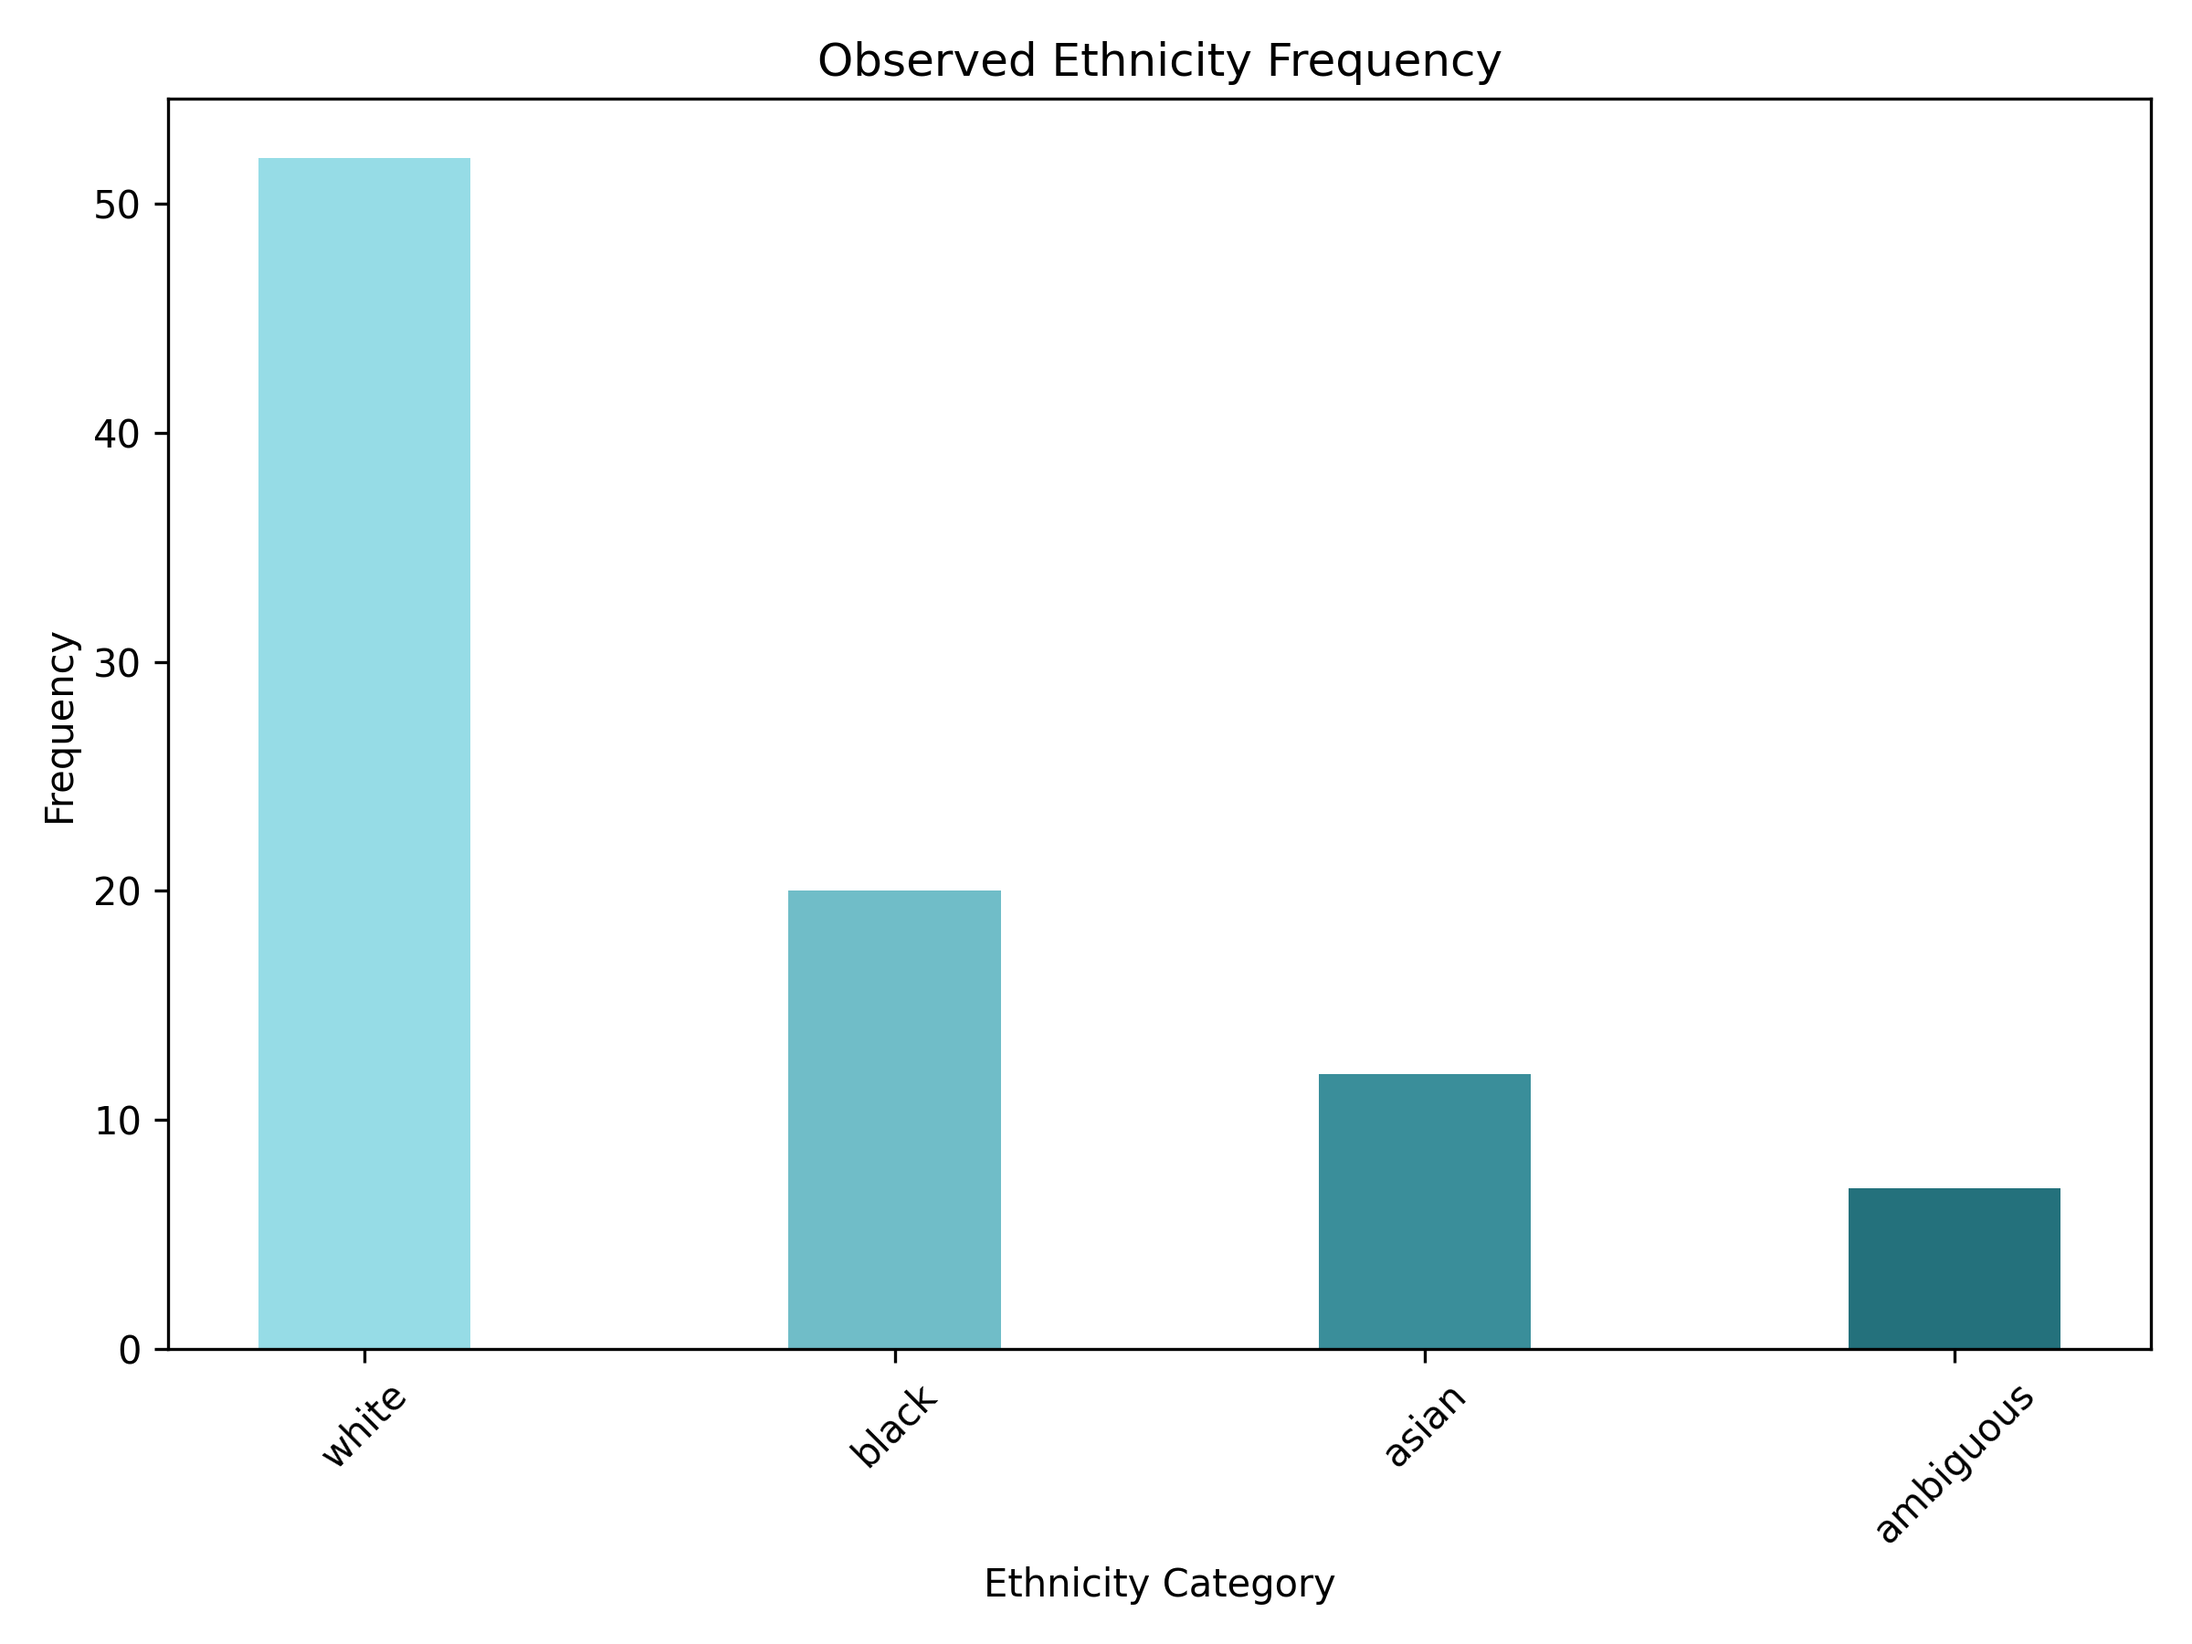
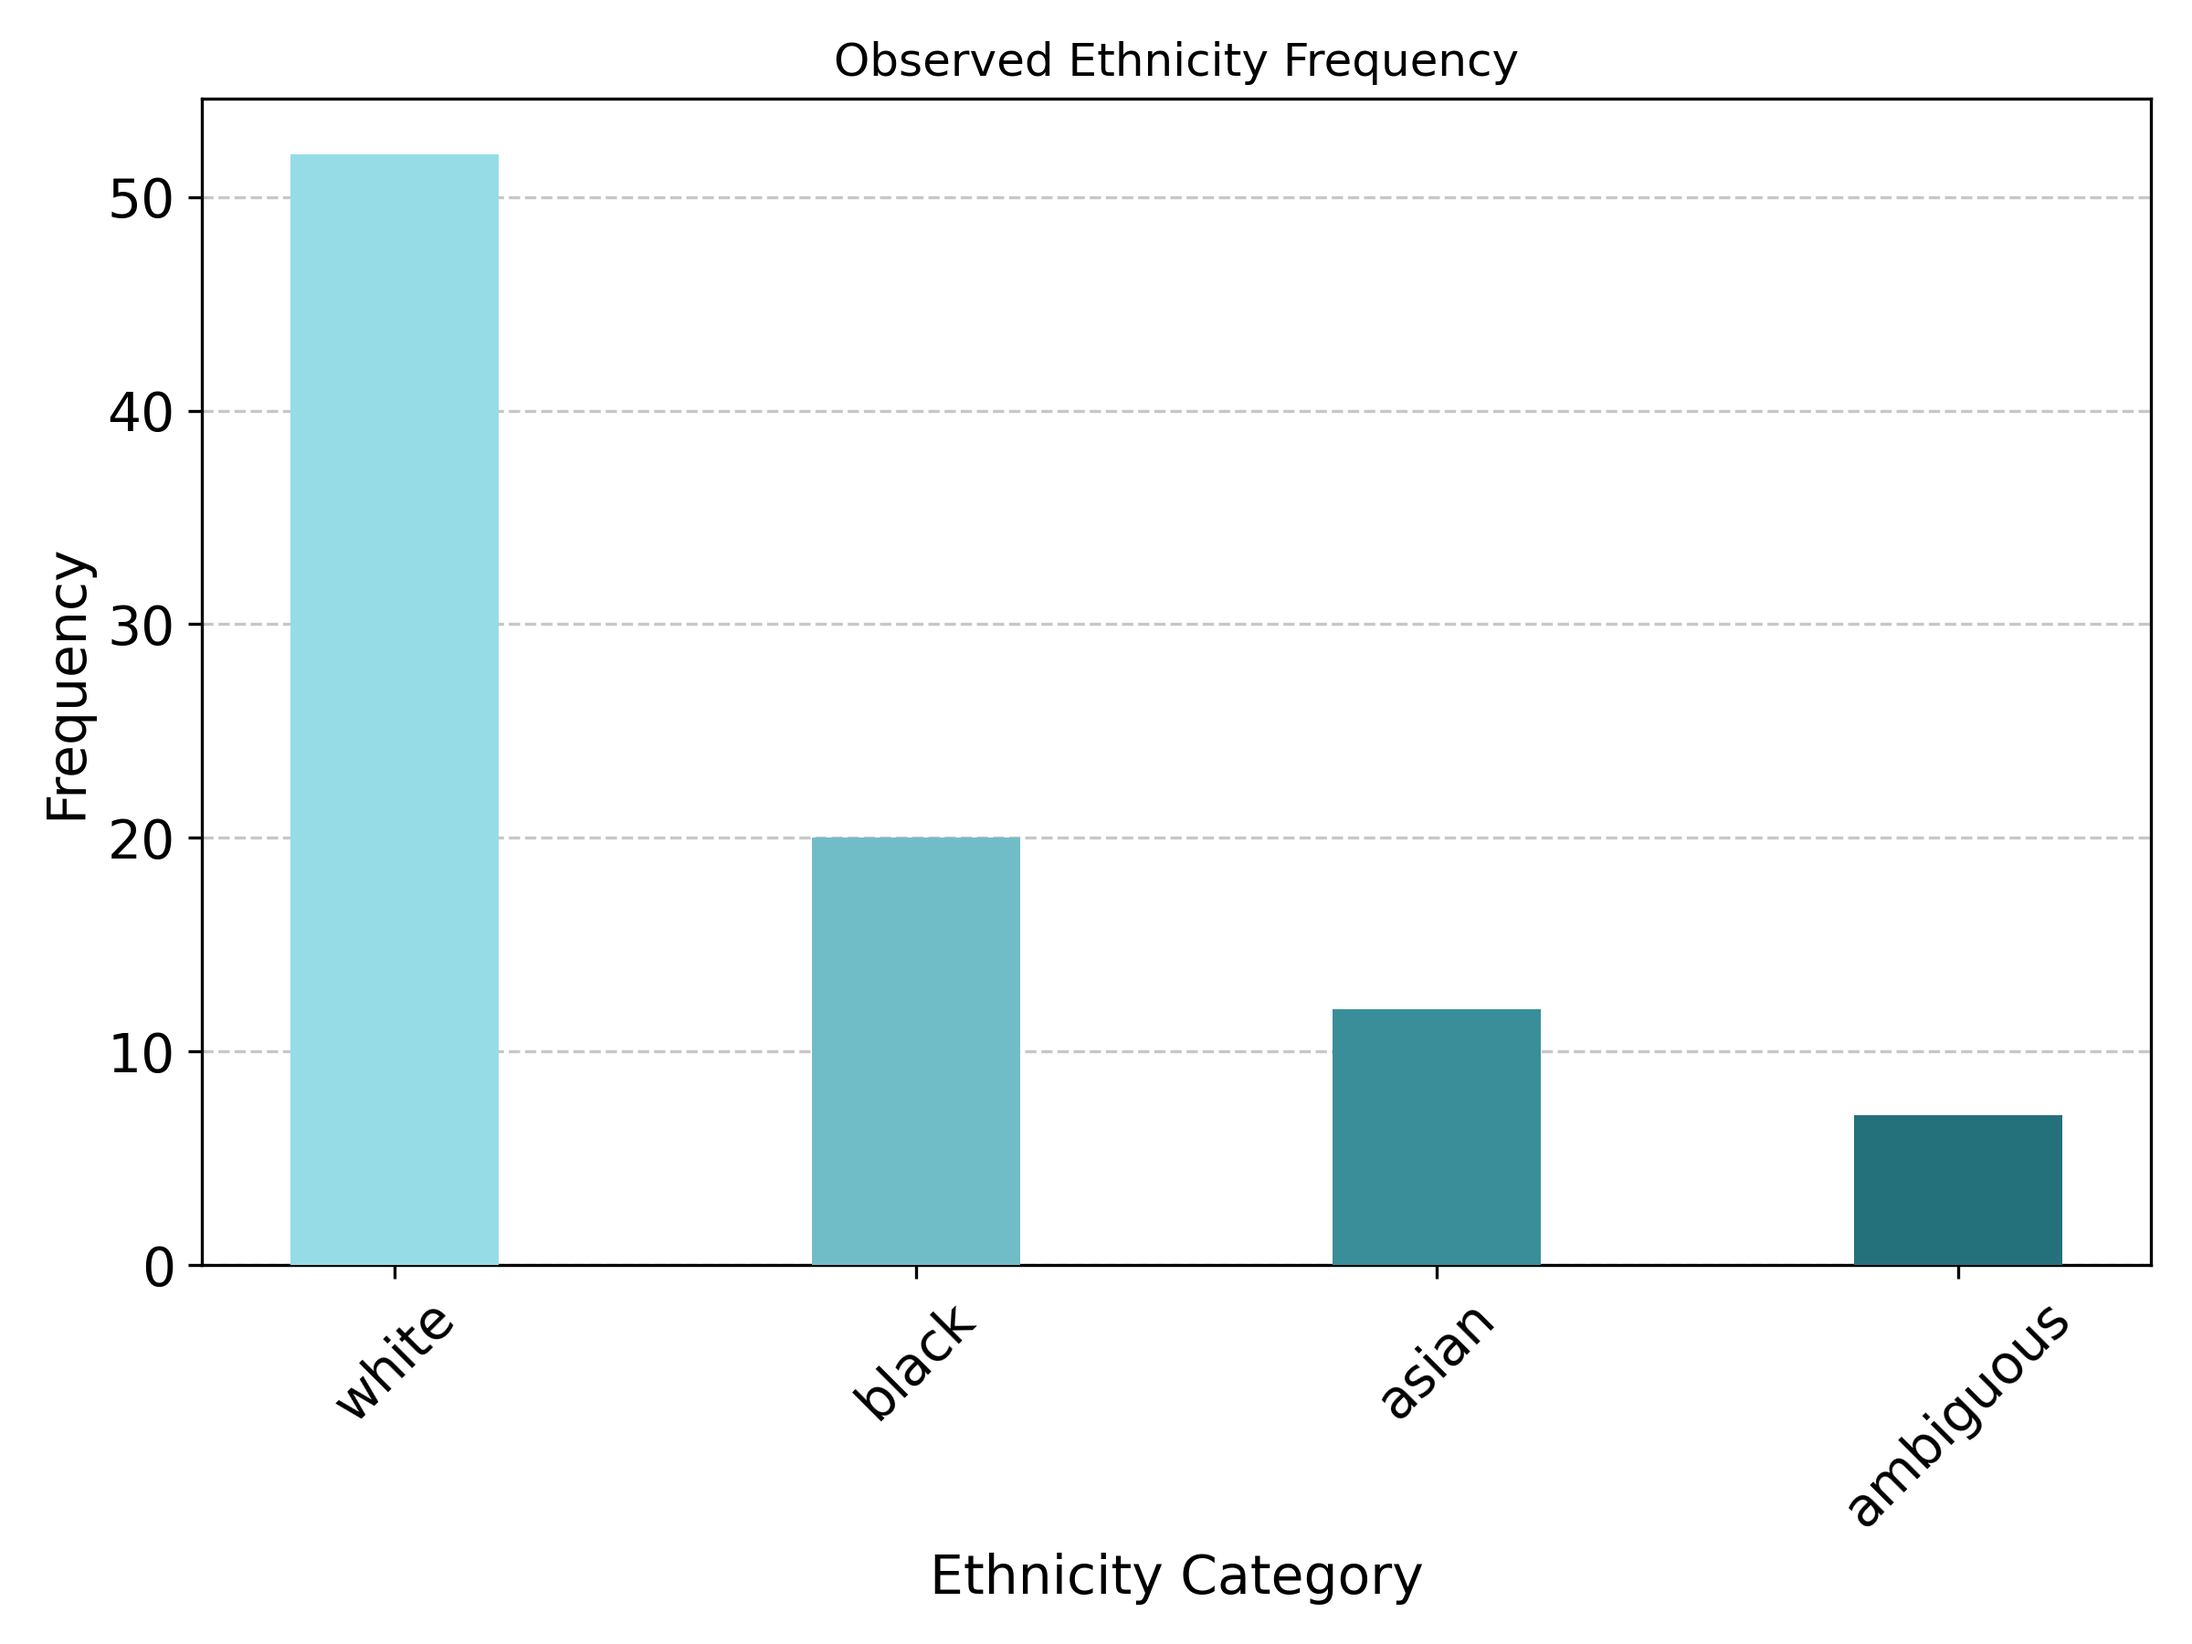
Updated plots

diff --git a/preprocess_models.py b/preprocess_models.py
@@ -149,9 +149,9 @@ def gender_distribution_per_us_agency(agency_df):
     colors = ["#ff73c5", "#73d5ff", "#78ff73"]  # Blue, Orange, Green
 
     fig, ax = plt.subplots(2, 1, figsize=(9, 16), sharey=True)
-    agency_gender_count_1.plot(kind='bar', ax=ax[0], width=0.5, color=colors, edgecolor="black", linewidth=0.5)
-    agency_gender_count_2.plot(kind='bar', ax=ax[1], width=0.5, color=colors, edgecolor="black", linewidth=0.5)
-    ax[0].set_title("Gender Distribution per Agency", fontsize=16, fontweight='bold')
+    agency_gender_count_1.plot(kind='bar', ax=ax[0], width=0.5, color=colors, edgecolor="black", linewidth=0.5, zorder=3)
+    agency_gender_count_2.plot(kind='bar', ax=ax[1], width=0.5, color=colors, edgecolor="black", linewidth=0.5, zorder=3)
+    ax[0].set_title("Gender Distribution per Agency", fontsize=16)
     ax[0].set_xlabel("Agency", fontsize=14)
     ax[0].set_ylabel("Count", fontsize=14)
     ax[1].set_xlabel("Agency", fontsize=14)
@@ -162,11 +162,13 @@ def gender_distribution_per_us_agency(agency_df):
     ax[1].set_xticks(x_positions_2)
     ax[0].set_xticklabels(agency_gender_count_1.index, rotation=90, ha='center', fontsize=12)
     ax[1].set_xticklabels(agency_gender_count_2.index, rotation=90, ha='center', fontsize=12)
-    plt.grid(axis="y", linestyle="--", alpha=0.7)
+    ax[0].grid(axis="y", linestyle="--", alpha=0.7, zorder=0)
+    ax[1].grid(axis="y", linestyle="--", alpha=0.7, zorder=0)
     plt.gca().set_axisbelow(True)
     #plt.subplots_adjust(left=0.1, right=0.95, top=0.9, bottom=0.5)
     plt.tight_layout(h_pad=4)
-    plt.legend(title="Gender", fontsize=12, title_fontsize=14)
+    ax[0].legend(title="Gender", fontsize=12, title_fontsize=14)
+    ax[1].legend(title="Gender", fontsize=12, title_fontsize=14)
     plt.savefig("images/gender_distribution_per_agency.png", dpi=300)
 
 def import_skintone_data():
@@ -196,12 +198,15 @@ def plot_skintone_distribution():
     skintone_counts = skintones_df['skin_tone'].value_counts().sort_index()
     skin_tone_colormap = {1: '#f6ede4', 2: '#f3e7db', 3: '#f7ead0', 4: '#eadaba', 5: '#d7bd96', 
                           6: '#a07e56', 7: '#825c43', 8: '#604134', 9: '#3a312a', 10: '#292420'}
+    plt.figure(figsize=(10, 8))
+    plt.grid(axis="y", linestyle="--", alpha=0.7, zorder=0)
     plt.bar(x=list(skintone_counts.index), height=list(skintone_counts.values), color=[skin_tone_colormap[i] \
-                                                                                       for i in skintone_counts.index])
-    plt.title('Skintone Distribution')
-    plt.xlabel('Skin Tone on Monk Skin Tone Scale')
-    plt.ylabel('Count')
-    plt.xticks(list(range(1, 11)), rotation=90)
+                                                                                       for i in skintone_counts.index], zorder=3)
+    plt.title('Skintone Distribution', fontsize=14)
+    plt.xlabel('Skin Tone on Monk Skin Tone Scale', fontsize=14)
+    plt.ylabel('Count', fontsize=14)
+    plt.xticks(list(range(1, 11)), rotation=90, fontsize=14)
+    plt.yticks(list(range(0, 50, 10)), fontsize=14)
     plt.savefig('images/skintone_distribution_barchart.png')
     
 
@@ -266,45 +271,49 @@ def skintone_vs_gender(skintones_df, moty_df, top_50_male, top_50_female):
     if "TM" in grouped_data.index:
         fig, ax = plt.subplots(1, 5, figsize=(25, 5), sharey=True)
     else:
-        fig, ax = plt.subplots(1, 4, figsize=(20, 5), sharey=True)
-
-    ax[0].bar(x=grouped_data.columns, height=grouped_data.iloc[0], color=[skin_tone_colormap[i] for i in grouped_data.columns])
-    ax[0].set_title('Cisgender Female Models')
-    ax[0].set_xlabel('Skin Tone on Monk Skin Tone Scale')
-    ax[0].set_ylabel('Count')
-    ax[0].set_xticks(list(range(1, 11)))
-    ax[0].set_xticklabels(list(range(1, 11)))
-    ax[0].set_yticks(list(range(0, 21, 2)))
-    ax[0].set_yticklabels(list(range(0, 21, 2)))
-    ax[1].bar(x=grouped_data.columns, height=grouped_data.iloc[1], color=[skin_tone_colormap[i] for i in grouped_data.columns])
-    ax[1].set_title('Cisgender Male Models')
-    ax[1].set_xlabel('Skin Tone')
-    ax[1].set_xticks(list(range(1, 11)))
-    ax[1].set_xticklabels(list(range(1, 11)))
-    ax[1].set_yticks(list(range(0, 21, 2)))
-    ax[1].set_yticklabels(list(range(0, 21, 2)))
-    ax[2].bar(x=grouped_data.columns, height=grouped_data.iloc[2], color=[skin_tone_colormap[i] for i in grouped_data.columns])
-    ax[2].set_title('Non-Binary Models')
-    ax[2].set_xlabel('Skin Tone')
-    ax[2].set_xticks(list(range(1, 11)))
-    ax[2].set_xticklabels(list(range(1, 11)))
-    ax[2].set_yticks(list(range(0, 21, 2)))
-    ax[2].set_yticklabels(list(range(0, 21, 2)))
-    ax[3].bar(x=grouped_data.columns, height=grouped_data.iloc[3], color=[skin_tone_colormap[i] for i in grouped_data.columns])
-    ax[3].set_title('Transgender Female Models')
-    ax[3].set_xlabel('Skin Tone')
-    ax[3].set_xticks(list(range(1, 11)))
-    ax[3].set_xticklabels(list(range(1, 11)))
-    ax[3].set_yticks(list(range(0, 21, 2)))
-    ax[3].set_yticklabels(list(range(0, 21, 2)))
+        fig, ax = plt.subplots(2, 2, figsize=(12, 12), sharey=True)
+    ax[0, 0].grid(axis="y", linestyle="--", alpha=0.7, zorder=0)
+    ax[0, 0].bar(x=grouped_data.columns, height=grouped_data.iloc[0], color=[skin_tone_colormap[i] for i in grouped_data.columns], zorder=3)
+    ax[0, 0].set_title('Cisgender Female Models', fontsize=14)
+    ax[0, 0].set_xlabel('Skin Tone on Monk Skin Tone Scale', fontsize=14)
+    ax[0, 0].set_ylabel('Count', fontsize=14)
+    ax[0, 0].set_xticks(list(range(1, 11)))
+    ax[0, 0].set_xticklabels(list(range(1, 11)), fontsize=14)
+    ax[0, 0].set_yticks(list(range(0, 21, 2)))
+    ax[0, 0].set_yticklabels(list(range(0, 21, 2)), fontsize=14)
+    ax[0, 1].grid(axis="y", linestyle="--", alpha=0.7, zorder=0)
+    ax[0, 1].bar(x=grouped_data.columns, height=grouped_data.iloc[1], color=[skin_tone_colormap[i] for i in grouped_data.columns], zorder=3)
+    ax[0, 1].set_title('Cisgender Male Models', fontsize=14)
+    ax[0, 1].set_xlabel('Skin Tone', fontsize=14)
+    ax[0, 1].set_xticks(list(range(1, 11)))
+    ax[0, 1].set_xticklabels(list(range(1, 11)), fontsize=14)
+    ax[0, 1].set_yticks(list(range(0, 21, 2)))
+    ax[0, 1].set_yticklabels(list(range(0, 21, 2)), fontsize=14)
+    ax[1, 0].grid(axis="y", linestyle="--", alpha=0.7, zorder=0)
+    ax[1, 0].bar(x=grouped_data.columns, height=grouped_data.iloc[2], color=[skin_tone_colormap[i] for i in grouped_data.columns], zorder=3)
+    ax[1, 0].set_title('Non-Binary Models', fontsize=14)
+    ax[1, 0].set_xlabel('Skin Tone', fontsize=14)
+    ax[1, 0].set_xticks(list(range(1, 11)))
+    ax[1, 0].set_xticklabels(list(range(1, 11)), fontsize=14)
+    ax[1, 0].set_yticks(list(range(0, 21, 2)))
+    ax[1, 0].set_yticklabels(list(range(0, 21, 2)), fontsize=14)
+    ax[1, 1].grid(axis="y", linestyle="--", alpha=0.7, zorder=0)
+    ax[1, 1].bar(x=grouped_data.columns, height=grouped_data.iloc[3], color=[skin_tone_colormap[i] for i in grouped_data.columns], zorder=3)
+    ax[1, 1].set_title('Transgender Female Models', fontsize=14)
+    ax[1, 1].set_xlabel('Skin Tone', fontsize=14)
+    ax[1, 1].set_xticks(list(range(1, 11)))
+    ax[1, 1].set_xticklabels(list(range(1, 11)), fontsize=14)
+    ax[1, 1].set_yticks(list(range(0, 21, 2)))
+    ax[1, 1].set_yticklabels(list(range(0, 21, 2)), fontsize=14)
     if "TM" in grouped_data.index:
         ax[4].bar(x=grouped_data.columns, height=grouped_data.iloc[4], color=[skin_tone_colormap[i] for i in grouped_data.columns])
         ax[4].set_title('Transgender Male Models')
         ax[4].set_xticks(list(range(1, 11)))
-        ax[4].set_xticklabels(list(range(1, 11)))
+        ax[4].set_xticklabels(list(range(1, 11)), fontsize=14)
         ax[4].set_yticks(list(range(0, 21, 2)))
-        ax[4].set_yticklabels(list(range(0, 21, 2)))
-    plt.suptitle('Skintone Distribution By Gender for All USA Models')
+        ax[4].set_yticklabels(list(range(0, 21, 2)), fontsize=14)
+    plt.suptitle('Skintone Distribution By Gender for All USA Models', fontsize=16)
+    plt.tight_layout()
     plt.savefig('images/skintone_vs_gender.png') 
 
 def skintone_vs_moty_bs(skintones_df, moty_df):
@@ -392,10 +401,14 @@ def mean_skintone_of_moty_bs_over_time(skintone_df, moty_df):
     fig, ax = plt.subplots(figsize=(10, 8))
     ax.add_collection(lc)
     ax.autoscale()
-    ax.set_title('Mean Skintone of Model of the Year and Breakout Star Winners in the last 10 years')
-    ax.set_xlabel('Year')
-    ax.set_ylabel('Mean Skintone on Monk Skin Tone Scale')
-    plt.colorbar(lc, ax=ax, label="Mean Skintone")  # Add color legend
+    ax.set_title('Mean Skintone of Model of the Year and\nBreakout Star Winners in the last 10 years', fontsize=16)
+    ax.set_xlabel('Year', fontsize=14)
+    ax.set_xticklabels(years, rotation=45, fontsize=14)
+    ax.set_ylabel('Mean Skintone on Monk Skin Tone Scale', fontsize=14)
+    ax.set_yticks([1.5, 2, 2.5, 3, 3.5, 4, 4.5, 5])
+    ax.set_yticklabels([1.5, 2, 2.5, 3, 3.5, 4, 4.5, 5], rotation=90, fontsize=14)
+    plt.colorbar(lc, ax=ax).ax.tick_params(labelsize=14)  # Add color legend
+    plt.grid(axis="y", linestyle="--", alpha=0.7)
     plt.savefig('images/mean_skintone_of_moty_bs_over_time.png')
     plt.show()
 
@@ -520,7 +533,7 @@ def main():
     # eda_gender_distribution_over_years(moty_df)
 
     #gender distribution per US agency
-    # gender_distribution_per_us_agency(agency_df)
+    gender_distribution_per_us_agency(agency_df)
 
 
 

diff --git a/copy_mag_analysis.py b/copy_mag_analysis.py
@@ -25,11 +25,13 @@ def num_ethnicity(df: pd.DataFrame) -> None:
         df: DataFrame containing the data.
     """
     plt.figure(figsize=(8, 6), dpi=300)
-    plt.bar(df['observed_ethnicity'].value_counts().index, df['observed_ethnicity'].value_counts().values, color=['#96dce6', '#70bdc8', '#3a8e9a', '#24717c'], width=0.4)
+    plt.bar(df['observed_ethnicity'].value_counts().index, df['observed_ethnicity'].value_counts().values, color=['#96dce6', '#70bdc8', '#3a8e9a', '#24717c'], width=0.4, zorder=3)
     plt.title('Observed Ethnicity Frequency')
-    plt.xlabel('Ethnicity Category')
-    plt.ylabel('Frequency')
-    plt.xticks(rotation=45)
+    plt.xlabel('Ethnicity Category', fontsize=14)
+    plt.ylabel('Frequency', fontsize=14)
+    plt.xticks(rotation=45, fontsize=14)
+    plt.yticks(fontsize=14)
+    plt.grid(axis='y', linestyle='--', alpha=0.7, zorder=0)
     plt.tight_layout()
     plt.savefig('images/eth_freq.png')
     plt.show()
